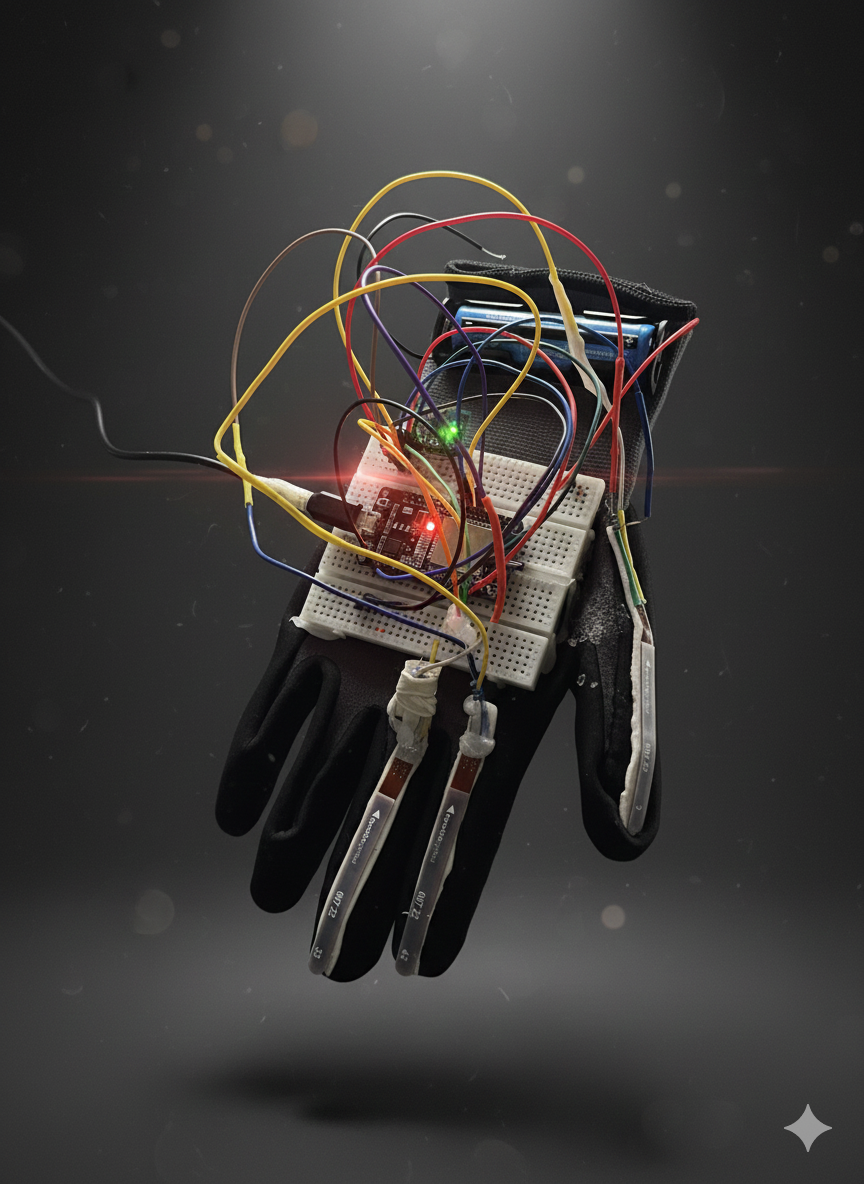
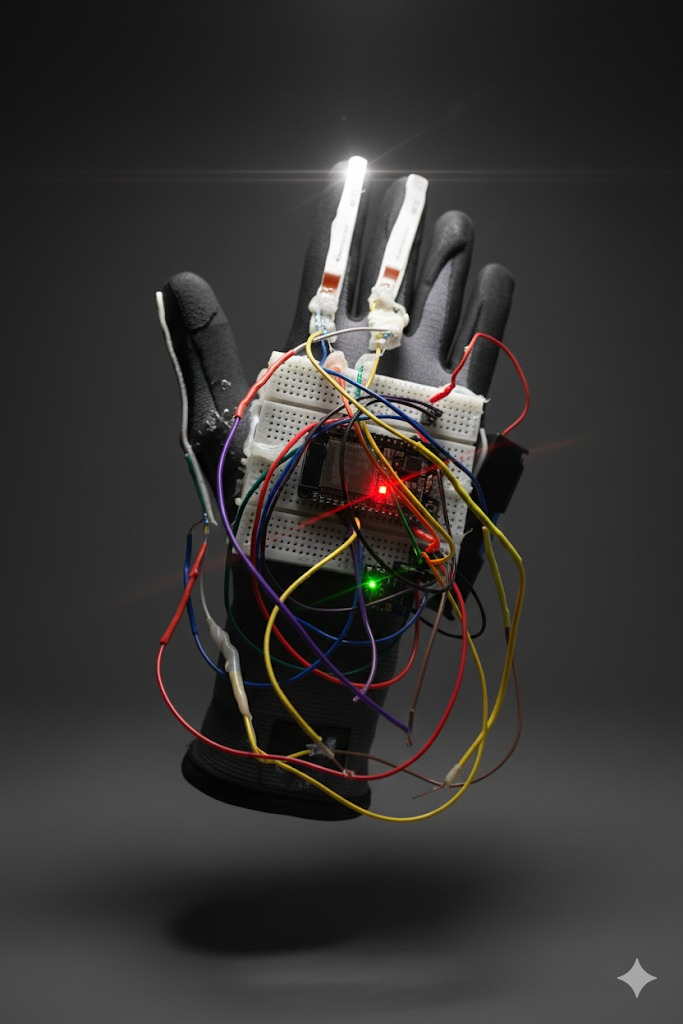
the last commit in front end

diff --git a/smart-glove-frontend/src/components/Hero.js b/smart-glove-frontend/src/components/Hero.js
@@ -104,46 +104,6 @@ const Hero = () => {
               </div>
             </div>
           </div>
-
-          {/* Cartes Flottantes avec icônes Lucide - Position 1 (Haut Droite) */}
-          <div className="hero-floating-card hero-card-top-right">
-            <div className="hero-card-icon-wrapper">
-              <div className="hero-card-icon-bg hero-icon-cyan">
-                <Zap size={24} strokeWidth={2.5} />
-              </div>
-            </div>
-            <div className="hero-card-text">
-              <div className="hero-card-title-text">Détection Instantanée</div>
-              <div className="hero-card-subtitle-text">&lt; 50ms latence</div>
-            </div>
-          </div>
-
-          {/* Carte Position 2 (Haut Gauche) */}
-          <div className="hero-floating-card hero-card-top-left">
-            <div className="hero-card-icon-wrapper">
-              <div className="hero-card-icon-bg hero-icon-purple">
-                <Target size={24} strokeWidth={2.5} />
-              </div>
-            </div>
-            <div className="hero-card-text">
-              <div className="hero-card-title-text">Haute Précision</div>
-              <div className="hero-card-subtitle-text">95%+ accuracy</div>
-            </div>
-          </div>
-
-          {/* Carte Position 3 (Bas Droite) */}
-          <div className="hero-floating-card hero-card-bottom-right">
-            <div className="hero-card-icon-wrapper">
-              <div className="hero-card-icon-bg hero-icon-blue">
-                <Wifi size={24} strokeWidth={2.5} />
-              </div>
-            </div>
-            <div className="hero-card-text">
-              <div className="hero-card-title-text">WiFi Connected</div>
-              <div className="hero-card-subtitle-text">Real-time data</div>
-            </div>
-          </div>
-
           {/* Carte Position 4 (Bas Gauche) */}
           <div className="hero-floating-card hero-card-bottom-left">
             <div className="hero-card-icon-wrapper">
